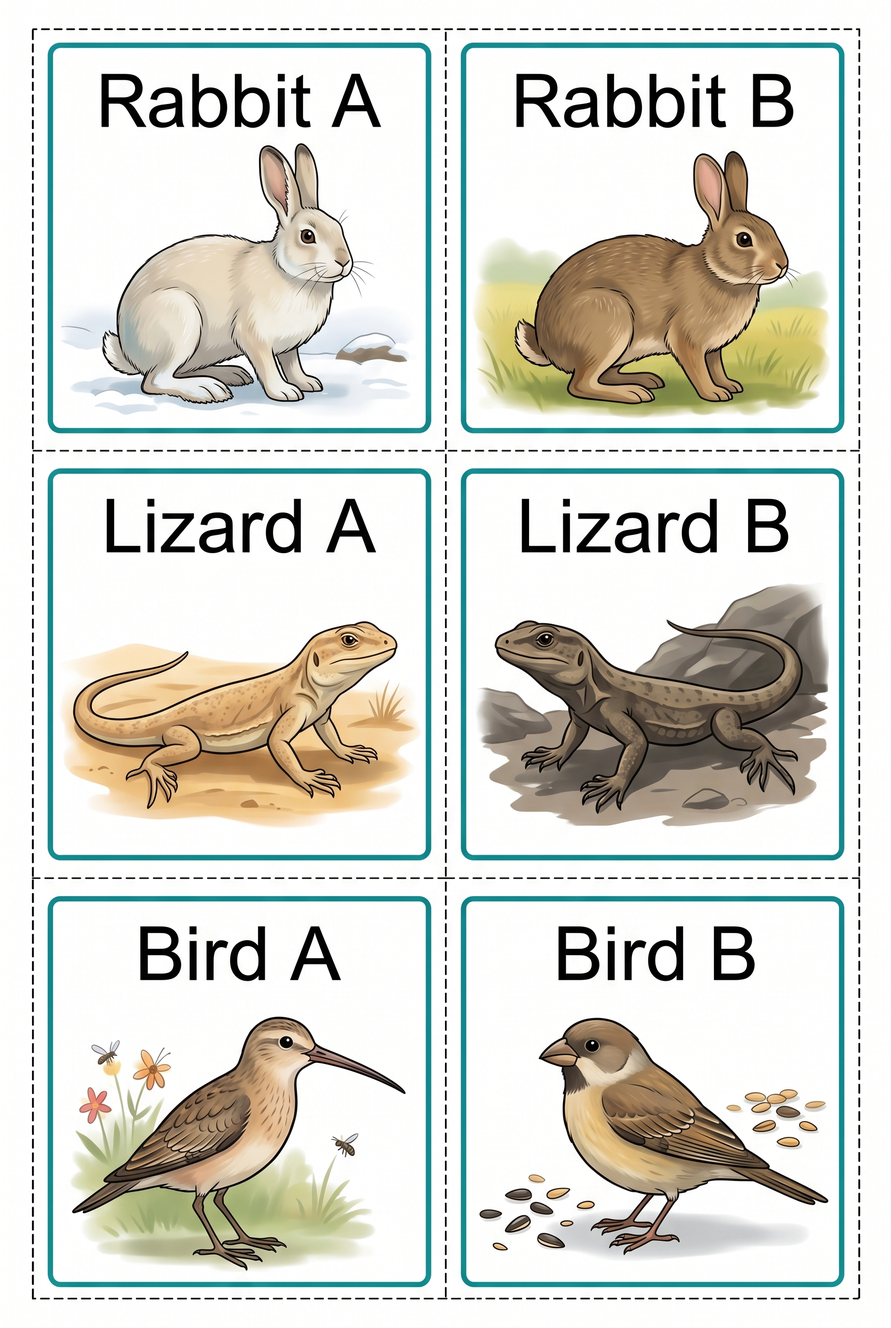
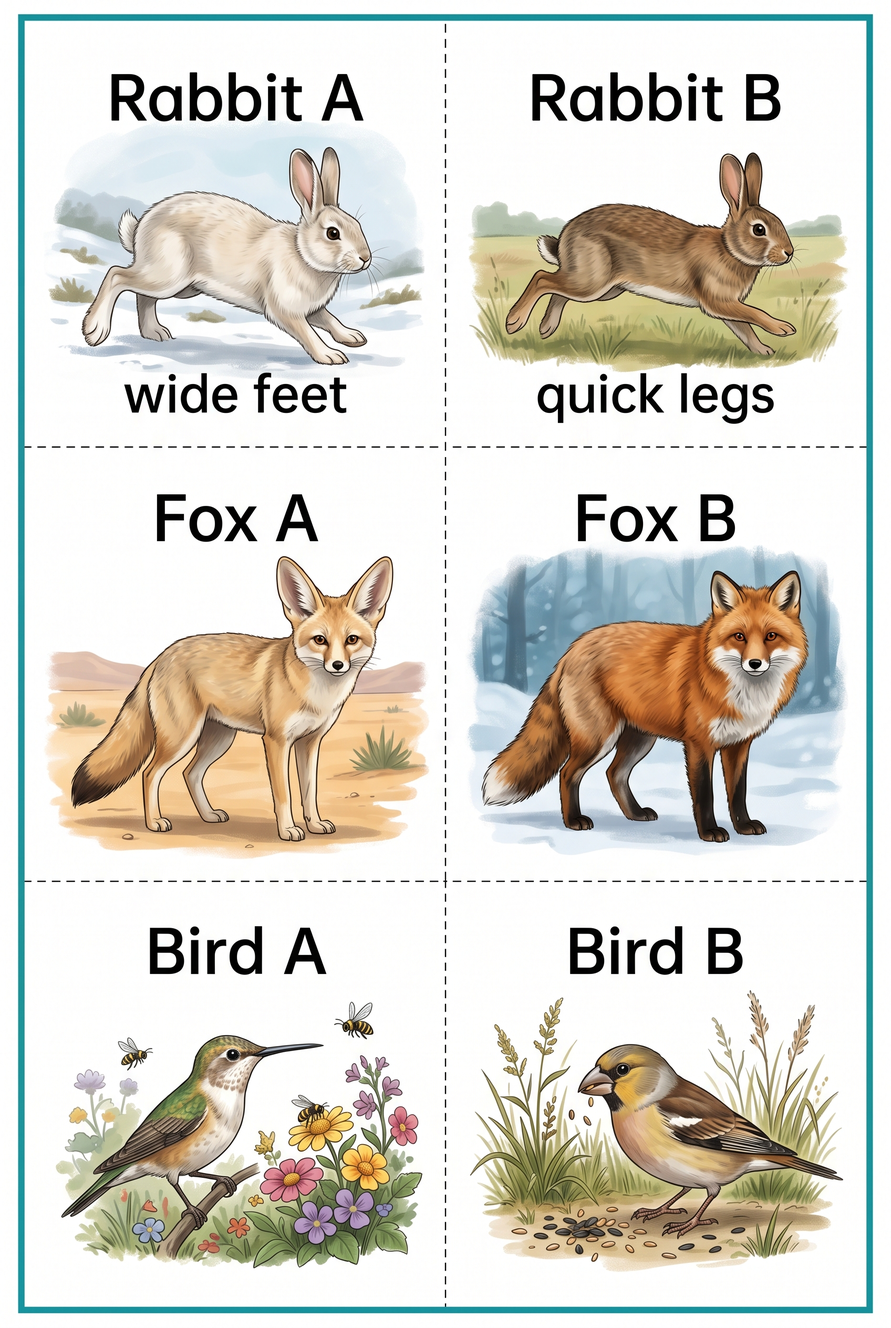
Replace lizard cards with fox cards in survival lesson

diff --git a/lesson-plans/gr3-ls4-unit3-lesson1-variation-can-help-survival.html b/lesson-plans/gr3-ls4-unit3-lesson1-variation-can-help-survival.html
@@ -1,1 +1,1 @@
-<!DOCTYPE html><html lang="en"><head><meta charset="UTF-8"><meta name="viewport" content="width=device-width, initial-scale=1.0"><link rel="canonical" href="https://littlelabcoats.co/lesson-plans/gr3-ls4-unit3-lesson1-variation-can-help-survival.html"><title>Variation Can Help Survival — Grade 3 Life Science — Traits for Survival</title><style>*{box-sizing:border-box}body{font-family:Georgia,'Times New Roman',serif;max-width:8.5in;margin:0 auto;padding:.5in;font-size:11pt;line-height:1.4;color:#222;background:#fff}h1{text-align:center;font-size:22pt;margin-bottom:5px;border-bottom:3px solid #1f7a8c;padding-bottom:10px;color:#1f7a8c}.subtitle{text-align:center;font-style:italic;margin-bottom:20px;color:#555;font-size:13pt}.meta{display:flex;justify-content:space-between;background:#e6f8fb;padding:10px 15px;border-radius:8px;margin-bottom:20px;font-size:10pt;border:1px solid #8fd3e0;flex-wrap:wrap;gap:5px}h2{font-size:14pt;background:#1f7a8c;color:#fff;padding:8px 14px;margin:24px 0 12px;border-radius:6px}h3{font-size:12pt;color:#14505c;border-bottom:2px solid #8fd3e0;padding-bottom:4px;margin:18px 0 8px}ul,ol{margin:8px 0;padding-left:25px}li{margin-bottom:5px}.hero-image{text-align:center;margin:16px 0}.emoji-hero{font-size:62pt;line-height:1.2}.caption{font-size:9pt;color:#777;font-style:italic;margin-top:4px}.standards-box{background:#f3e5f5;border:1px solid #ce93d8;border-radius:8px;padding:14px 18px;margin:10px 0;font-size:10pt}.objective-box{background:#e6f8fb;border:2px solid #8fd3e0;border-radius:8px;padding:14px 18px;margin:10px 0}.tip-box{background:#e0f7fa;border-left:5px solid #00bcd4;padding:10px 15px;margin:10px 0;border-radius:0 6px 6px 0;font-size:10pt}.lesson-path{background:#f7fbff;border:1px solid #b6d7f2;border-radius:10px;padding:12px 14px;margin:14px 0 20px}.lesson-path-title{font-size:10pt;font-weight:700;color:#24557a;text-transform:uppercase;letter-spacing:.04em;margin-bottom:8px}.lesson-path-links{display:flex;flex-wrap:wrap;gap:8px}.lesson-path-links a{display:inline-block;text-decoration:none;color:#14505c;background:#fff;border:1px solid #8fd3e0;border-radius:999px;padding:6px 10px;font-size:9.5pt;font-weight:600}.lesson-path-links a.current{background:#1f7a8c;color:#fff;border-color:#1f7a8c}.materials-box{background:#fff8e1;border:2px solid #ffcc80;padding:14px 18px;border-radius:8px;margin:10px 0}.materials-box h3{color:#e65100;border-color:#ffcc80}.procedure-step{background:#e6f8fb;padding:10px 15px;margin:8px 0;border-radius:6px;border-left:5px solid #1f7a8c}.procedure-step strong{color:#14505c}.question-box{background:#e6f8fb;border-left:5px solid #1f7a8c;padding:10px 15px;margin:10px 0;border-radius:0 6px 6px 0}.discussion-hint{display:block;font-style:italic;color:#555;font-size:10pt;margin-top:4px}.extension-box{background:#e8eaf6;border:1px solid #9fa8da;border-radius:8px;padding:14px 18px;margin:10px 0}.teacher-note,.answer-key{background:#f5f5f5;border:2px dashed #999;border-radius:8px;padding:15px;margin:20px 0;font-size:10pt;color:#555}.answer-key{border-width:3px;padding:20px}.vocab-chips{display:flex;flex-wrap:wrap;gap:8px;margin:10px 0}.vocab-chip{background:#e6f8fb;border:1.5px solid #8fd3e0;border-radius:20px;padding:4px 14px;font-size:10pt;font-weight:700;color:#14505c}.worksheet-section{margin:20px 0;break-inside:avoid;page-break-inside:avoid}.name-date{text-align:center;margin-bottom:16px;font-size:12pt}.line-block p{border-bottom:1.5px solid #bbb;height:30px;margin:0 0 10px 0}.compare-table{width:100%;border-collapse:collapse;margin:14px 0;font-size:10pt;table-layout:fixed}.compare-table th{background:#1f7a8c;color:#fff;padding:8px 10px;border:1.5px solid #14505c;text-align:left}.compare-table td{border:1.5px solid #8fd3e0;padding:10px;vertical-align:top;height:44px}.compare-table tr:nth-child(even) td{background:#fffaf3}.card-sheet{background:#fffaf3;border:2px solid #ffd6a5;border-radius:12px;padding:14px 14px 10px;margin:12px 0}.card-sheet img{width:100%;height:auto;display:block;border-radius:10px;border:1px solid #e6d4bf}.hands-on-box{background:#eefaf2;border-left:5px solid #43a047;padding:12px 15px;margin:12px 0;border-radius:0 8px 8px 0}.draw-area{border:1.5px dashed #bbb;border-radius:6px;min-height:100px;background:#fafafa;margin-top:8px}.page-break{page-break-before:always;break-before:page}.lesson-branding{display:flex;align-items:center;justify-content:center;gap:12px;margin:0 0 18px 0;padding:10px 14px;background:#fffaf3;border:1.5px solid #ffd6a5;border-radius:12px}.lesson-branding img{width:44px;height:44px;object-fit:contain}.lesson-branding-text{font-family:'Lato',Arial,sans-serif;font-size:11pt;font-weight:700;letter-spacing:.02em;color:#5A3A16}.print-btn{position:fixed;top:20px;right:20px;background:#1f7a8c;color:#fff;border:none;padding:10px 18px;border-radius:8px;font-size:.95rem;font-weight:600;cursor:pointer;z-index:1000}.llc-paywall-overlay{position:fixed;bottom:0;left:0;right:0;background:linear-gradient(to bottom,rgba(255,255,255,0) 0%,rgba(255,255,255,.97) 30%,#fff 100%);padding:48px 24px 40px;text-align:center;z-index:1000;box-shadow:0 -8px 40px rgba(59,31,107,.12)}.llc-paywall-inner{max-width:520px;margin:0 auto}.llc-paywall-emoji{font-size:2.2rem;display:block;margin-bottom:8px}.llc-paywall-title{font-family:'Playfair Display',Georgia,serif;font-size:1.4rem;font-weight:700;color:#3B1F6B;margin-bottom:8px}.llc-paywall-sub{font-family:'Lato',sans-serif;font-size:.95rem;color:#5A7A78;margin-bottom:20px;line-height:1.5}.llc-btn-subscribe{display:inline-block;background:#FF6B6B;color:#fff;font-family:'Lato',sans-serif;font-weight:700;font-size:1rem;padding:14px 32px;border-radius:8px;text-decoration:none}@media print{@page{margin:.4in}body{max-width:none;padding:.35in;font-size:10.5pt;line-height:1.35}h1,h2,h3{break-after:avoid}.procedure-step,.question-box,.teacher-note,.materials-box,.tip-box,.extension-box,.answer-key,.standards-box,.objective-box,.worksheet-section,.compare-table,.lesson-path{break-inside:avoid;page-break-inside:avoid}.compare-table{width:100%;table-layout:fixed;font-size:9pt;margin:10px 0}.compare-table th,.compare-table td{padding:6px 7px;height:auto;vertical-align:top;overflow-wrap:anywhere}.line-block p{margin:0 0 8px 0;height:26px}.print-btn,.llc-paywall-overlay{display:none!important}*{-webkit-print-color-adjust:exact;print-color-adjust:exact}}</style></head><body data-document-id="doc_inB9sRyCtjA"><button class="print-btn" type="button" onclick="window.focus(); window.print();">🖨 Print Lesson</button><div class="lesson-branding"><img src="/images/site/llc-logo-serena-approved-400.png" alt="Little Lab Coats logo"><div class="lesson-branding-text">Little Lab Coats</div></div><h1>Variation Can Help Survival</h1><p class="subtitle">Life Science — Traits for Survival | Unit 3, Lesson 1 of 6</p><div class="meta"><span>📚 <strong>Grade:</strong> Grade 3</span><span>⏱ <strong>Duration:</strong> 45–60 minutes</span><span>🔬 <strong>Subject:</strong> Life Science — Traits for Survival</span></div><div class="hero-image"><div class="emoji-hero">🦎🌿</div><div class="caption">In the right environment, a variation can become an advantage.</div></div><div class="standards-box"><strong>📋 NGSS Standard:</strong><br><strong>3-LS4-2</strong> — Use evidence to construct an explanation for how the variations in characteristics among individuals of the same species may provide advantages in surviving, finding mates, and reproducing.</div><h2>🎯 Learning Objective</h2><div class="objective-box"><p>Students will explain that variation in traits can give some individuals a survival edge in a specific environment.</p></div><h2>💡 The Big Idea</h2><p>When individuals in the same species vary, some traits may work better in a particular environment and give those individuals a survival edge.</p><h2>🔬 The Science</h2><p>Variation means individuals in the same species are not exactly alike. One animal may have slightly different coloring, a thicker coat, longer legs, sharper eyesight, or a beak shape that helps it get a certain kind of food. Those differences can matter when organisms are trying to find food, avoid predators, stay warm, blend in, or live in a challenging habitat.</p><p>A trait advantage depends on the environment. A lighter fur color may help an animal stay hidden in a snowy place, but not in a dark forest. Longer legs might help an animal move through tall grass or shallow water more easily. A trait is not just “good” on its own, it becomes helpful because it matches a need in a particular place.</p><p>This is what gives some individuals a survival edge. If a variation helps an organism find food faster, stay safer, or handle the environment better, that individual may be more likely to survive and reproduce. Students should connect the trait, the environment, and the advantage using evidence, not just guesses.</p><div class="tip-box"><strong>💡 Key Vocabulary</strong><div class="vocab-chips"><span class="vocab-chip">variation</span><span class="vocab-chip">advantage</span><span class="vocab-chip">survival</span><span class="vocab-chip">environment</span><span class="vocab-chip">individual</span><span class="vocab-chip">trait</span></div></div><h2>📦 Materials</h2><div class="materials-box"><h3>🏠 Household Items to Gather</h3><ul><li>Printed organism cards from this lesson</li><li>Worksheet</li><li>Pencil</li><li>Scissors (optional, if cutting out the cards)</li></ul><h3>📋 Printables</h3><ul><li>Student worksheet page from this lesson</li><li>Organism cards page from this lesson</li></ul></div><h2>🧪 Investigation</h2><div class="hands-on-box"><strong>🙌 Make it hands-on:</strong> Print the organism cards page, cut apart the cards, and physically sort or move them onto different habitat choices before writing. If you do not want to cut them out, point to the cards and use small objects or fingers to match them.</div><div class="procedure-step"><strong>Step 1 — Cut, Compare, and Notice</strong><br>Cut apart or point to the organism cards. Study several individuals from the same species and list their differences. Ask: which traits jump out right away?</div><div class="procedure-step"><strong>Step 2 — Build the Habitat Match</strong><br>Make simple habitat zones on the table with paper labels: snowy place, dry desert, dark forest, rocky area, and tall grass. Place each organism card into the setting where its trait might help most.</div><div class="procedure-step"><strong>Step 3 — Act Out the Survival Challenge</strong><br>Choose one environment card and have students act out how a trait could help that organism hide, move, stay warm, or get food there. This makes the survival advantage concrete and fun.</div><div class="procedure-step"><strong>Step 4 — Defend Your Match with Evidence</strong><br>Pick one card and explain exactly which trait helps and what problem it solves. Encourage students to disagree politely and defend a different habitat match if they have evidence.</div><div class="procedure-step"><strong>Step 5 — Explain the Survival Edge</strong><br>Write one claim about how variation can help survival, and support it with evidence from one organism card and one environment.</div><h2>💬 Discussion Questions</h2><div class="question-box"><strong>Why does the environment matter?</strong><span class="discussion-hint">A trait is only an advantage in relation to a particular setting.</span></div><div class="question-box"><strong>Can two individuals of the same species survive in different ways?</strong><span class="discussion-hint">Yes, variation means individuals can have different strengths.</span></div><div class="question-box"><strong>What counts as evidence here?</strong><span class="discussion-hint">Trait details plus a clear connection to the environment.</span></div><h2>🚀 Extensions</h2><div class="extension-box"><p><strong>Extension:</strong> Invent your own environment card and decide which traits would help most there.</p></div><h2>👩🏫 Parent/Teacher Notes</h2><div class="teacher-note"><strong>Teaching move:</strong> Emphasize “may provide advantages” rather than “always provides.”</div><div class="page-break"><h2>Student Worksheet</h2><div class="worksheet-section"><div class="name-date">Name: ________________________ &nbsp;&nbsp;&nbsp; Date: ________________________</div><h3>1⃣ Variation and environment</h3><table class="compare-table"><thead><tr><th>Trait variation</th><th>Environment</th><th>Possible advantage</th></tr></thead><tbody><tr><td></td><td></td><td></td></tr><tr><td></td><td></td><td></td></tr><tr><td></td><td></td><td></td></tr></tbody></table><h3>2⃣ My explanation</h3><div class="line-block"><p></p><p></p></div></div></div><div class="page-break"><h2>✂ Organism Cards</h2><div class="worksheet-section"><div class="card-sheet"><img src="/images/lesson-plans/gr3-ls4-unit3-lesson1-organism-cards-gemini.jpg" alt="Printable organism cards showing Rabbit A, Rabbit B, Lizard A, Lizard B, Bird A, and Bird B with different traits and habitat clues."></div><p><em>Cut out or point to the cards above. Match each organism to the environment where its trait might help most, then explain why.</em></p><table class="compare-table"><thead><tr><th>Organism Card</th><th>Trait Variation</th><th>Possible Environment Match</th></tr></thead><tbody><tr><td>Rabbit A</td><td>Light fur, wide feet</td><td>Snowy place</td></tr><tr><td>Rabbit B</td><td>Brown fur, quick legs</td><td>Grassy field or forest edge</td></tr><tr><td>Lizard A</td><td>Sand-colored skin</td><td>Dry desert or rocky area</td></tr><tr><td>Lizard B</td><td>Darker skin, stronger claws</td><td>Dark rocks or shaded ground</td></tr><tr><td>Bird A</td><td>Long thin beak</td><td>Flowers or narrow food spaces</td></tr><tr><td>Bird B</td><td>Short thick beak</td><td>Seeds or hard food sources</td></tr></tbody></table></div></div><div class="page-break"><div class="answer-key"><h2>🔑 PARENT ANSWER KEY — Detach before giving worksheet to students</h2><h3>Sample explanation</h3><p>A trait variation can help survival when it matches the environment, such as camouflage color in a place with similar colors.</p><h3>✅ What Success Looks Like</h3><ul><li>Student links a variation to a specific environment.</li><li>Student explains the survival connection clearly.</li><li>Student uses evidence rather than guessing.</li></ul><h3>Sample card matches</h3><ul><li><strong>Rabbit A:</strong> light fur and wide feet could help in snowy places.</li><li><strong>Rabbit B:</strong> brown fur may help it blend into grassy or wooded spaces.</li><li><strong>Lizard A:</strong> sand-colored skin may help it stay hidden in dry desert habitats.</li><li><strong>Lizard B:</strong> darker skin and claws may help on rocky or shaded ground.</li><li><strong>Bird A:</strong> a long thin beak may help reach nectar or insects in narrow spaces.</li><li><strong>Bird B:</strong> a short thick beak may help crack seeds.</li></ul></div></div><script src="https://cassclearly.com/feedback-layer.js?v=20260408" data-api-url="https://cassclearly.com" data-document-id="doc_inB9sRyCtjA" data-content-selector="body"></script><div class="llc-paywall-overlay" id="llcPaywall" style="display:none;"><div class="llc-paywall-inner"><span class="llc-paywall-emoji">🥼</span><div class="llc-paywall-title">This is a preview. Unlock the full lesson.</div><p class="llc-paywall-sub">You're seeing a preview. Full-library access is not live yet. For now, browse the live store products and free sample lessons while the larger subscription offer stays in Coming Soon.<br><strong>Live now: free samples + Kitchen Chemistry.</strong></p><a href="/store.html#live-now" class="llc-btn-subscribe">See Live Products &amp; Free Samples</a></div></div><script>(function(){var ACCESS_KEY='llc_access';function isUnlocked(){return localStorage.getItem(ACCESS_KEY)==='granted';}function lockLesson(){var allH2=Array.from(document.querySelectorAll('h2'));var objectiveKeywords=['learning objective','learning objectives'];var objectiveH2=null;var lockFromH2=null;for(var i=0;i<allH2.length;i++){var text=allH2[i].textContent.toLowerCase().trim();if(!objectiveH2&&objectiveKeywords.some(function(k){return text.indexOf(k)!==-1;})) objectiveH2=allH2[i];}if(objectiveH2){var objectiveIndex=allH2.indexOf(objectiveH2);lockFromH2=allH2[objectiveIndex+1]||null;}if(!lockFromH2){lockFromH2=allH2[Math.min(4,allH2.length-1)]||null;}if(!lockFromH2){document.body.style.overflow='hidden';document.body.style.maxHeight='600px';document.getElementById('llcPaywall').style.display='block';return;}var hiding=false;Array.from(document.body.children).forEach(function(child){if(child===lockFromH2||child.contains(lockFromH2)) hiding=true;if(hiding&&child.id!=='llcPaywall') child.style.display='none';});document.getElementById('llcPaywall').style.display='block';}document.addEventListener('DOMContentLoaded',function(){if(window.location.search.indexOf('review=1')!==-1){return;}if(!isUnlocked())lockLesson();});})();</script><footer class="llc-footer" style="text-align:center;padding:24px 16px 16px;font-family:'Lato',sans-serif;font-size:.78rem;color:#999;border-top:1px solid #eee;margin-top:32px;">© 2026 Little Lab Coats. For personal, non-commercial use only. Unauthorized reproduction, redistribution, or resale is prohibited. Printed copies are for use within your immediate household only.</footer></body></html>
+<!DOCTYPE html><html lang="en"><head><meta charset="UTF-8"><meta name="viewport" content="width=device-width, initial-scale=1.0"><link rel="canonical" href="https://littlelabcoats.co/lesson-plans/gr3-ls4-unit3-lesson1-variation-can-help-survival.html"><title>Variation Can Help Survival — Grade 3 Life Science — Traits for Survival</title><style>*{box-sizing:border-box}body{font-family:Georgia,'Times New Roman',serif;max-width:8.5in;margin:0 auto;padding:.5in;font-size:11pt;line-height:1.4;color:#222;background:#fff}h1{text-align:center;font-size:22pt;margin-bottom:5px;border-bottom:3px solid #1f7a8c;padding-bottom:10px;color:#1f7a8c}.subtitle{text-align:center;font-style:italic;margin-bottom:20px;color:#555;font-size:13pt}.meta{display:flex;justify-content:space-between;background:#e6f8fb;padding:10px 15px;border-radius:8px;margin-bottom:20px;font-size:10pt;border:1px solid #8fd3e0;flex-wrap:wrap;gap:5px}h2{font-size:14pt;background:#1f7a8c;color:#fff;padding:8px 14px;margin:24px 0 12px;border-radius:6px}h3{font-size:12pt;color:#14505c;border-bottom:2px solid #8fd3e0;padding-bottom:4px;margin:18px 0 8px}ul,ol{margin:8px 0;padding-left:25px}li{margin-bottom:5px}.hero-image{text-align:center;margin:16px 0}.emoji-hero{font-size:62pt;line-height:1.2}.caption{font-size:9pt;color:#777;font-style:italic;margin-top:4px}.standards-box{background:#f3e5f5;border:1px solid #ce93d8;border-radius:8px;padding:14px 18px;margin:10px 0;font-size:10pt}.objective-box{background:#e6f8fb;border:2px solid #8fd3e0;border-radius:8px;padding:14px 18px;margin:10px 0}.tip-box{background:#e0f7fa;border-left:5px solid #00bcd4;padding:10px 15px;margin:10px 0;border-radius:0 6px 6px 0;font-size:10pt}.lesson-path{background:#f7fbff;border:1px solid #b6d7f2;border-radius:10px;padding:12px 14px;margin:14px 0 20px}.lesson-path-title{font-size:10pt;font-weight:700;color:#24557a;text-transform:uppercase;letter-spacing:.04em;margin-bottom:8px}.lesson-path-links{display:flex;flex-wrap:wrap;gap:8px}.lesson-path-links a{display:inline-block;text-decoration:none;color:#14505c;background:#fff;border:1px solid #8fd3e0;border-radius:999px;padding:6px 10px;font-size:9.5pt;font-weight:600}.lesson-path-links a.current{background:#1f7a8c;color:#fff;border-color:#1f7a8c}.materials-box{background:#fff8e1;border:2px solid #ffcc80;padding:14px 18px;border-radius:8px;margin:10px 0}.materials-box h3{color:#e65100;border-color:#ffcc80}.procedure-step{background:#e6f8fb;padding:10px 15px;margin:8px 0;border-radius:6px;border-left:5px solid #1f7a8c}.procedure-step strong{color:#14505c}.question-box{background:#e6f8fb;border-left:5px solid #1f7a8c;padding:10px 15px;margin:10px 0;border-radius:0 6px 6px 0}.discussion-hint{display:block;font-style:italic;color:#555;font-size:10pt;margin-top:4px}.extension-box{background:#e8eaf6;border:1px solid #9fa8da;border-radius:8px;padding:14px 18px;margin:10px 0}.teacher-note,.answer-key{background:#f5f5f5;border:2px dashed #999;border-radius:8px;padding:15px;margin:20px 0;font-size:10pt;color:#555}.answer-key{border-width:3px;padding:20px}.vocab-chips{display:flex;flex-wrap:wrap;gap:8px;margin:10px 0}.vocab-chip{background:#e6f8fb;border:1.5px solid #8fd3e0;border-radius:20px;padding:4px 14px;font-size:10pt;font-weight:700;color:#14505c}.worksheet-section{margin:20px 0;break-inside:avoid;page-break-inside:avoid}.name-date{text-align:center;margin-bottom:16px;font-size:12pt}.line-block p{border-bottom:1.5px solid #bbb;height:30px;margin:0 0 10px 0}.compare-table{width:100%;border-collapse:collapse;margin:14px 0;font-size:10pt;table-layout:fixed}.compare-table th{background:#1f7a8c;color:#fff;padding:8px 10px;border:1.5px solid #14505c;text-align:left}.compare-table td{border:1.5px solid #8fd3e0;padding:10px;vertical-align:top;height:44px}.compare-table tr:nth-child(even) td{background:#fffaf3}.card-sheet{background:#fffaf3;border:2px solid #ffd6a5;border-radius:12px;padding:14px 14px 10px;margin:12px 0}.card-sheet img{width:100%;height:auto;display:block;border-radius:10px;border:1px solid #e6d4bf}.hands-on-box{background:#eefaf2;border-left:5px solid #43a047;padding:12px 15px;margin:12px 0;border-radius:0 8px 8px 0}.draw-area{border:1.5px dashed #bbb;border-radius:6px;min-height:100px;background:#fafafa;margin-top:8px}.page-break{page-break-before:always;break-before:page}.lesson-branding{display:flex;align-items:center;justify-content:center;gap:12px;margin:0 0 18px 0;padding:10px 14px;background:#fffaf3;border:1.5px solid #ffd6a5;border-radius:12px}.lesson-branding img{width:44px;height:44px;object-fit:contain}.lesson-branding-text{font-family:'Lato',Arial,sans-serif;font-size:11pt;font-weight:700;letter-spacing:.02em;color:#5A3A16}.print-btn{position:fixed;top:20px;right:20px;background:#1f7a8c;color:#fff;border:none;padding:10px 18px;border-radius:8px;font-size:.95rem;font-weight:600;cursor:pointer;z-index:1000}.llc-paywall-overlay{position:fixed;bottom:0;left:0;right:0;background:linear-gradient(to bottom,rgba(255,255,255,0) 0%,rgba(255,255,255,.97) 30%,#fff 100%);padding:48px 24px 40px;text-align:center;z-index:1000;box-shadow:0 -8px 40px rgba(59,31,107,.12)}.llc-paywall-inner{max-width:520px;margin:0 auto}.llc-paywall-emoji{font-size:2.2rem;display:block;margin-bottom:8px}.llc-paywall-title{font-family:'Playfair Display',Georgia,serif;font-size:1.4rem;font-weight:700;color:#3B1F6B;margin-bottom:8px}.llc-paywall-sub{font-family:'Lato',sans-serif;font-size:.95rem;color:#5A7A78;margin-bottom:20px;line-height:1.5}.llc-btn-subscribe{display:inline-block;background:#FF6B6B;color:#fff;font-family:'Lato',sans-serif;font-weight:700;font-size:1rem;padding:14px 32px;border-radius:8px;text-decoration:none}@media print{@page{margin:.4in}body{max-width:none;padding:.35in;font-size:10.5pt;line-height:1.35}h1,h2,h3{break-after:avoid}.procedure-step,.question-box,.teacher-note,.materials-box,.tip-box,.extension-box,.answer-key,.standards-box,.objective-box,.worksheet-section,.compare-table,.lesson-path{break-inside:avoid;page-break-inside:avoid}.compare-table{width:100%;table-layout:fixed;font-size:9pt;margin:10px 0}.compare-table th,.compare-table td{padding:6px 7px;height:auto;vertical-align:top;overflow-wrap:anywhere}.line-block p{margin:0 0 8px 0;height:26px}.print-btn,.llc-paywall-overlay{display:none!important}*{-webkit-print-color-adjust:exact;print-color-adjust:exact}}</style></head><body data-document-id="doc_inB9sRyCtjA"><button class="print-btn" type="button" onclick="window.focus(); window.print();">🖨 Print Lesson</button><div class="lesson-branding"><img src="/images/site/llc-logo-serena-approved-400.png" alt="Little Lab Coats logo"><div class="lesson-branding-text">Little Lab Coats</div></div><h1>Variation Can Help Survival</h1><p class="subtitle">Life Science — Traits for Survival | Unit 3, Lesson 1 of 6</p><div class="meta"><span>📚 <strong>Grade:</strong> Grade 3</span><span>⏱ <strong>Duration:</strong> 45–60 minutes</span><span>🔬 <strong>Subject:</strong> Life Science — Traits for Survival</span></div><div class="hero-image"><div class="emoji-hero">🦎🌿</div><div class="caption">In the right environment, a variation can become an advantage.</div></div><div class="standards-box"><strong>📋 NGSS Standard:</strong><br><strong>3-LS4-2</strong> — Use evidence to construct an explanation for how the variations in characteristics among individuals of the same species may provide advantages in surviving, finding mates, and reproducing.</div><h2>🎯 Learning Objective</h2><div class="objective-box"><p>Students will explain that variation in traits can give some individuals a survival edge in a specific environment.</p></div><h2>💡 The Big Idea</h2><p>When individuals in the same species vary, some traits may work better in a particular environment and give those individuals a survival edge.</p><h2>🔬 The Science</h2><p>Variation means individuals in the same species are not exactly alike. One animal may have slightly different coloring, a thicker coat, longer legs, sharper eyesight, or a beak shape that helps it get a certain kind of food. Those differences can matter when organisms are trying to find food, avoid predators, stay warm, blend in, or live in a challenging habitat.</p><p>A trait advantage depends on the environment. A lighter fur color may help an animal stay hidden in a snowy place, but not in a dark forest. Longer legs might help an animal move through tall grass or shallow water more easily. A trait is not just “good” on its own, it becomes helpful because it matches a need in a particular place.</p><p>This is what gives some individuals a survival edge. If a variation helps an organism find food faster, stay safer, or handle the environment better, that individual may be more likely to survive and reproduce. Students should connect the trait, the environment, and the advantage using evidence, not just guesses.</p><div class="tip-box"><strong>💡 Key Vocabulary</strong><div class="vocab-chips"><span class="vocab-chip">variation</span><span class="vocab-chip">advantage</span><span class="vocab-chip">survival</span><span class="vocab-chip">environment</span><span class="vocab-chip">individual</span><span class="vocab-chip">trait</span></div></div><h2>📦 Materials</h2><div class="materials-box"><h3>🏠 Household Items to Gather</h3><ul><li>Printed organism cards from this lesson</li><li>Worksheet</li><li>Pencil</li><li>Scissors (optional, if cutting out the cards)</li></ul><h3>📋 Printables</h3><ul><li>Student worksheet page from this lesson</li><li>Organism cards page from this lesson</li></ul></div><h2>🧪 Investigation</h2><div class="hands-on-box"><strong>🙌 Make it hands-on:</strong> Print the organism cards page, cut apart the cards, and physically sort or move them onto different habitat choices before writing. If you do not want to cut them out, point to the cards and use small objects or fingers to match them.</div><div class="procedure-step"><strong>Step 1 — Cut, Compare, and Notice</strong><br>Cut apart or point to the organism cards. Study several individuals from the same species and list their differences. Ask: which traits jump out right away?</div><div class="procedure-step"><strong>Step 2 — Build the Habitat Match</strong><br>Make simple habitat zones on the table with paper labels: snowy place, dry desert, dark forest, rocky area, and tall grass. Place each organism card into the setting where its trait might help most.</div><div class="procedure-step"><strong>Step 3 — Act Out the Survival Challenge</strong><br>Choose one environment card and have students act out how a trait could help that organism hide, move, stay warm, or get food there. This makes the survival advantage concrete and fun.</div><div class="procedure-step"><strong>Step 4 — Defend Your Match with Evidence</strong><br>Pick one card and explain exactly which trait helps and what problem it solves. Encourage students to disagree politely and defend a different habitat match if they have evidence.</div><div class="procedure-step"><strong>Step 5 — Explain the Survival Edge</strong><br>Write one claim about how variation can help survival, and support it with evidence from one organism card and one environment.</div><h2>💬 Discussion Questions</h2><div class="question-box"><strong>Why does the environment matter?</strong><span class="discussion-hint">A trait is only an advantage in relation to a particular setting.</span></div><div class="question-box"><strong>Can two individuals of the same species survive in different ways?</strong><span class="discussion-hint">Yes, variation means individuals can have different strengths.</span></div><div class="question-box"><strong>What counts as evidence here?</strong><span class="discussion-hint">Trait details plus a clear connection to the environment.</span></div><h2>🚀 Extensions</h2><div class="extension-box"><p><strong>Extension:</strong> Invent your own environment card and decide which traits would help most there.</p></div><h2>👩🏫 Parent/Teacher Notes</h2><div class="teacher-note"><strong>Teaching move:</strong> Emphasize “may provide advantages” rather than “always provides.”</div><div class="page-break"><h2>Student Worksheet</h2><div class="worksheet-section"><div class="name-date">Name: ________________________ &nbsp;&nbsp;&nbsp; Date: ________________________</div><h3>1⃣ Variation and environment</h3><table class="compare-table"><thead><tr><th>Trait variation</th><th>Environment</th><th>Possible advantage</th></tr></thead><tbody><tr><td></td><td></td><td></td></tr><tr><td></td><td></td><td></td></tr><tr><td></td><td></td><td></td></tr></tbody></table><h3>2⃣ My explanation</h3><div class="line-block"><p></p><p></p></div></div></div><div class="page-break"><h2>✂ Organism Cards</h2><div class="worksheet-section"><div class="card-sheet"><img src="/images/lesson-plans/gr3-ls4-unit3-lesson1-organism-cards-gemini.jpg" alt="Printable organism cards showing Rabbit A, Rabbit B, Lizard A, Lizard B, Bird A, and Bird B with different traits and habitat clues."></div><p><em>Cut out or point to the cards above. Match each organism to the environment where its trait might help most, then explain why.</em></p><table class="compare-table"><thead><tr><th>Organism Card</th><th>Trait Variation</th><th>Possible Environment Match</th></tr></thead><tbody><tr><td>Rabbit A</td><td>Light fur, wide feet</td><td>Snowy place</td></tr><tr><td>Rabbit B</td><td>Brown fur, quick legs</td><td>Grassy field or forest edge</td></tr><tr><td>Fox A</td><td>Sandy coat, large ears</td><td>Dry desert</td></tr><tr><td>Fox B</td><td>Thick coat, smaller ears</td><td>Cold forest or snowy place</td></tr><tr><td>Bird A</td><td>Long thin beak</td><td>Flowers or narrow food spaces</td></tr><tr><td>Bird B</td><td>Short thick beak</td><td>Seeds or hard food sources</td></tr></tbody></table></div></div><div class="page-break"><div class="answer-key"><h2>🔑 PARENT ANSWER KEY — Detach before giving worksheet to students</h2><h3>Sample explanation</h3><p>A trait variation can help survival when it matches the environment, such as camouflage color in a place with similar colors.</p><h3>✅ What Success Looks Like</h3><ul><li>Student links a variation to a specific environment.</li><li>Student explains the survival connection clearly.</li><li>Student uses evidence rather than guessing.</li></ul><h3>Sample card matches</h3><ul><li><strong>Rabbit A:</strong> light fur and wide feet could help in snowy places.</li><li><strong>Rabbit B:</strong> brown fur may help it blend into grassy or wooded spaces.</li><li><strong>Fox A:</strong> a sandy coat and large ears may help in hot, dry desert habitats.</li><li><strong>Fox B:</strong> a thicker coat and smaller ears may help in colder places.</li><li><strong>Bird A:</strong> a long thin beak may help reach nectar or insects in narrow spaces.</li><li><strong>Bird B:</strong> a short thick beak may help crack seeds.</li></ul></div></div><script src="https://cassclearly.com/feedback-layer.js?v=20260408" data-api-url="https://cassclearly.com" data-document-id="doc_inB9sRyCtjA" data-content-selector="body"></script><div class="llc-paywall-overlay" id="llcPaywall" style="display:none;"><div class="llc-paywall-inner"><span class="llc-paywall-emoji">🥼</span><div class="llc-paywall-title">This is a preview. Unlock the full lesson.</div><p class="llc-paywall-sub">You're seeing a preview. Full-library access is not live yet. For now, browse the live store products and free sample lessons while the larger subscription offer stays in Coming Soon.<br><strong>Live now: free samples + Kitchen Chemistry.</strong></p><a href="/store.html#live-now" class="llc-btn-subscribe">See Live Products &amp; Free Samples</a></div></div><script>(function(){var ACCESS_KEY='llc_access';function isUnlocked(){return localStorage.getItem(ACCESS_KEY)==='granted';}function lockLesson(){var allH2=Array.from(document.querySelectorAll('h2'));var objectiveKeywords=['learning objective','learning objectives'];var objectiveH2=null;var lockFromH2=null;for(var i=0;i<allH2.length;i++){var text=allH2[i].textContent.toLowerCase().trim();if(!objectiveH2&&objectiveKeywords.some(function(k){return text.indexOf(k)!==-1;})) objectiveH2=allH2[i];}if(objectiveH2){var objectiveIndex=allH2.indexOf(objectiveH2);lockFromH2=allH2[objectiveIndex+1]||null;}if(!lockFromH2){lockFromH2=allH2[Math.min(4,allH2.length-1)]||null;}if(!lockFromH2){document.body.style.overflow='hidden';document.body.style.maxHeight='600px';document.getElementById('llcPaywall').style.display='block';return;}var hiding=false;Array.from(document.body.children).forEach(function(child){if(child===lockFromH2||child.contains(lockFromH2)) hiding=true;if(hiding&&child.id!=='llcPaywall') child.style.display='none';});document.getElementById('llcPaywall').style.display='block';}document.addEventListener('DOMContentLoaded',function(){if(window.location.search.indexOf('review=1')!==-1){return;}if(!isUnlocked())lockLesson();});})();</script><footer class="llc-footer" style="text-align:center;padding:24px 16px 16px;font-family:'Lato',sans-serif;font-size:.78rem;color:#999;border-top:1px solid #eee;margin-top:32px;">© 2026 Little Lab Coats. For personal, non-commercial use only. Unauthorized reproduction, redistribution, or resale is prohibited. Printed copies are for use within your immediate household only.</footer></body></html>
